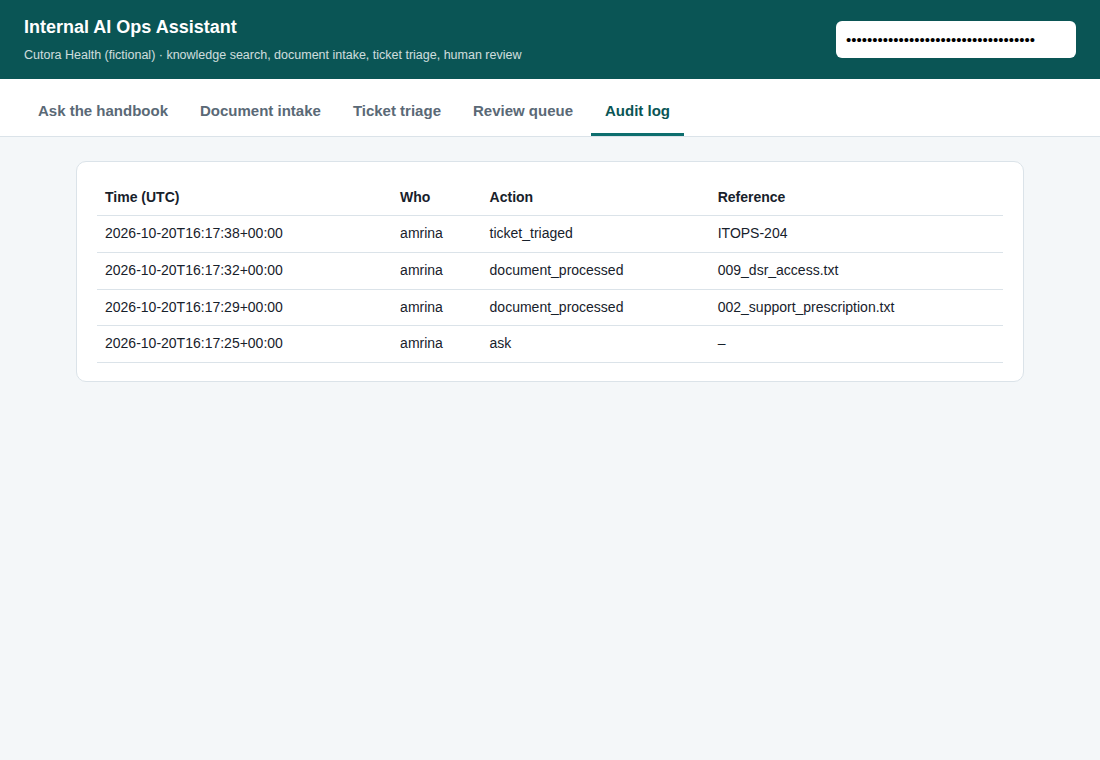
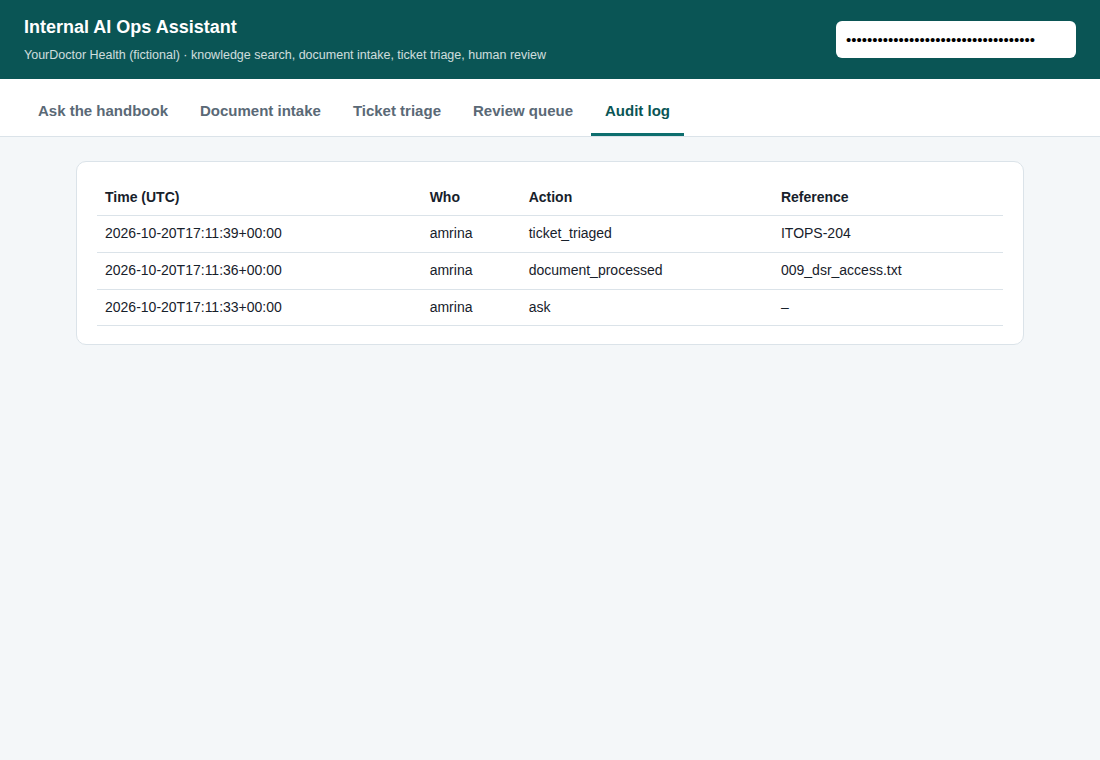
Rename the fictional company to YourDoctor Health

diff --git a/docs/index.html b/docs/index.html
@@ -114,7 +114,7 @@ footer { padding:28px 0 56px; color:var(--muted); font-size:14px; }
         <tr><td>Operations</td><td>JSON logs with request IDs, Prometheus metrics, health and readiness checks, Docker, CI with lint, security rules, 23 tests and a Docker build</td></tr>
       </tbody>
     </table>
-    <p class="note" style="margin-top:14px">Connectors are tested against mocked API responses, not against a live company tenant. Cutora Health and all data in the project are fictional.</p>
+    <p class="note" style="margin-top:14px">Connectors are tested against mocked API responses, not against a live company tenant. YourDoctor Health and all data in the project are fictional.</p>
   </div>
 </section>
 

diff --git a/app/static/index.html b/app/static/index.html
@@ -39,7 +39,7 @@ pre { background:#0f1b24; color:#d7e6ef; padding:12px; border-radius:8px; overfl
 </head>
 <body>
 <header>
-  <div><h1>Internal AI Ops Assistant</h1><small>Cutora Health (fictional) · knowledge search, document intake, ticket triage, human review</small></div>
+  <div><h1>Internal AI Ops Assistant</h1><small>YourDoctor Health (fictional) · knowledge search, document intake, ticket triage, human review</small></div>
   <input id="key" type="password" placeholder="API key" aria-label="API key" autocomplete="off">
 </header>
 <nav>

diff --git a/demo/streamlit_app.py b/demo/streamlit_app.py
@@ -141,7 +141,7 @@ mode = "gpt-4o-mini" if settings.llm_provider == "openai" else "offline rules (n
 st.markdown(f"""
 <div class="ops-header">
   <h1>Internal AI Ops Assistant</h1>
-  <p>Cutora Health (fictional) · knowledge search, document intake, ticket triage, human review ·
+  <p>YourDoctor Health (fictional) · knowledge search, document intake, ticket triage, human review ·
      <a href="https://sayamrina.github.io/ai-ops-assistant/">Project page</a> ·
      <a href="https://github.com/sayamrina/ai-ops-assistant">Code</a> ·
      by Amrina (<a href="https://sayamrina.github.io/">portfolio</a>)</p>

diff --git a/app/knowledge/answer.py b/app/knowledge/answer.py
@@ -7,7 +7,7 @@ from ..privacy import redact
 from .index import KnowledgeIndex
 
 SYSTEM = """TASK: answer
-You are the internal assistant of Cutora Health. Answer the employee's question using ONLY the numbered
+You are the internal assistant of YourDoctor Health. Answer the employee's question using ONLY the numbered
 excerpts from internal documents. Rules:
 - Employees ask informally ("Can I ...?", "What do I answer?"). If an excerpt covers the situation, answer it,
   including yes/no answers such as "No, SMS codes are not allowed."

diff --git a/README.md b/README.md
@@ -4,7 +4,7 @@
 
 **Project 2026** · [Live demo](https://ops-assistant.streamlit.app/) · [Project page](https://sayamrina.github.io/ai-ops-assistant/) · [Portfolio](https://sayamrina.github.io/)
 
-An internal AI service for a (fictional) telemedicine company, **Cutora Health**. It helps teams with three everyday operational problems and keeps a human in control wherever data or decisions are sensitive:
+An internal AI service for a (fictional) telemedicine company, **YourDoctor Health**. It helps teams with three everyday operational problems and keeps a human in control wherever data or decisions are sensitive:
 
 1. **Knowledge search**: employees ask questions about internal policies and get short answers with the exact source, or an honest "not in the documents".
 2. **Document intake**: incoming emails, invoices, doctor applications and GDPR requests are classified and turned into validated, structured data.
@@ -118,4 +118,4 @@ Tests run offline with a deterministic fake model (no API key needed): `ruff che
 
 ## Notes
 
-Cutora Health and all documents, people and numbers in this repository are fictional. This app was built by Amrina, with AI as a supporting tool for coding.
+YourDoctor Health and all documents, people and numbers in this repository are fictional. This app was built by Amrina, with AI as a supporting tool for coding.

diff --git a/data/knowledge/patient-data-protection.md b/data/knowledge/patient-data-protection.md
@@ -9,7 +9,7 @@ Patient data is health data under Art. 9 GDPR. Access follows the need-to-know p
 Internal AI tools may process patient-related text only after pseudonymisation: names, email addresses, phone numbers, dates of birth, insurance numbers and IBANs must be removed or replaced. External AI services may only be used if a data processing agreement is in place.
 
 ## Data subject requests
-Requests for access (Art. 15), correction (Art. 16) or deletion (Art. 17) must be forwarded to privacy@cutora.example on the same day. The legal deadline to answer is one month from receipt. Do not confirm or deny to the requester whether a person is a patient before identity is verified.
+Requests for access (Art. 15), correction (Art. 16) or deletion (Art. 17) must be forwarded to privacy@yourdoctor.example on the same day. The legal deadline to answer is one month from receipt. Do not confirm or deny to the requester whether a person is a patient before identity is verified.
 
 ## Data breaches
 Any suspected data breach must be reported to the Data Protection Officer immediately and at the latest within 24 hours, so that the company can notify the authority within 72 hours if required.

diff --git a/data/knowledge/using-ai-tools.md b/data/knowledge/using-ai-tools.md
@@ -1,4 +1,4 @@
-# Using AI Tools at Cutora
+# Using AI Tools at YourDoctor
 
 Owner: AI Enablement · Last review: 2026-10-01
 
